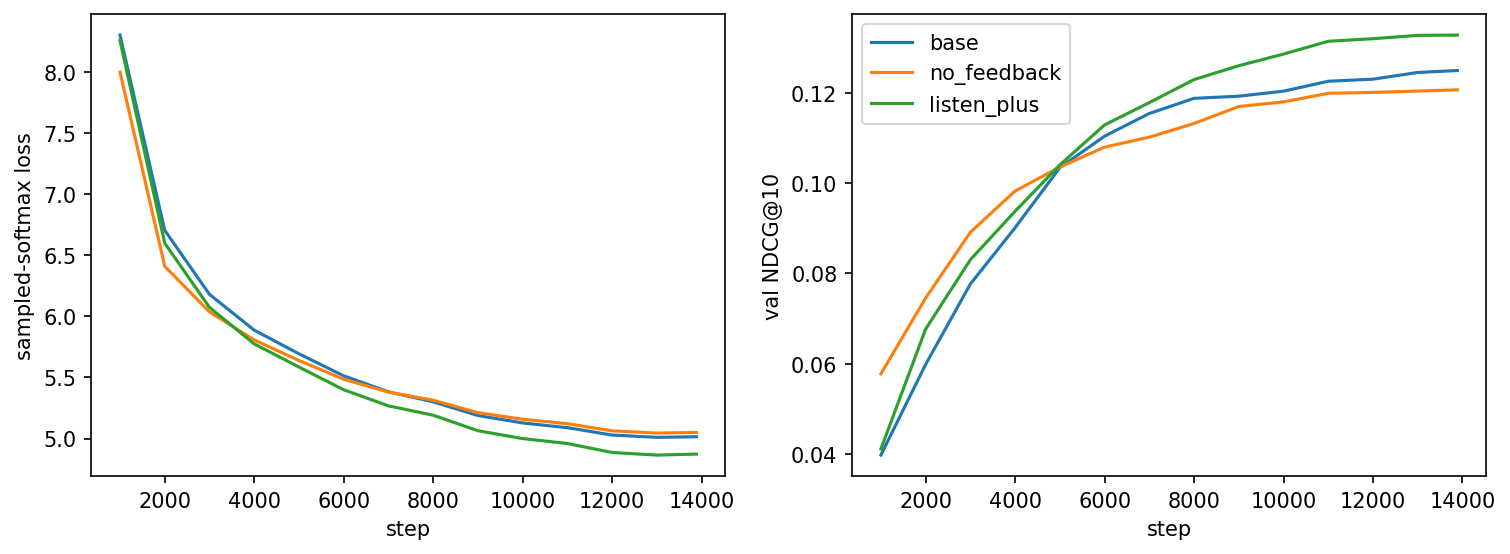
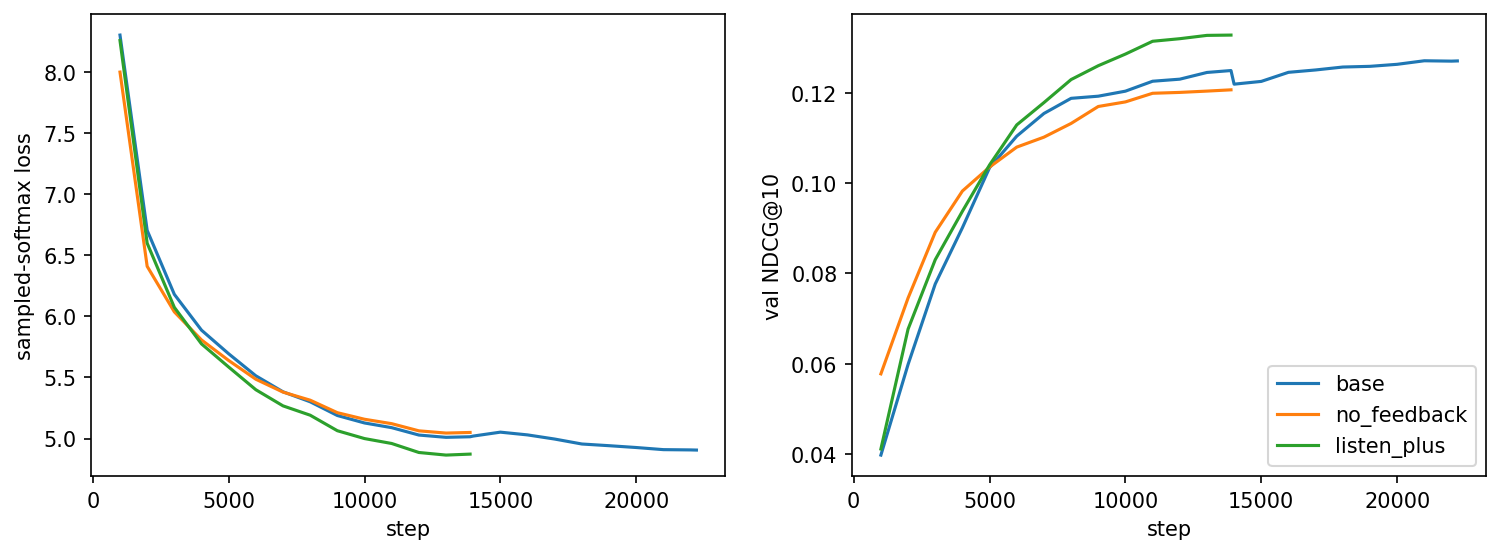
Stage 2 results with the base model trained for 8 epochs

diff --git a/docs/codeagents/observations.md b/docs/codeagents/observations.md
@@ -1,6 +1,6 @@
 # Наблюдения по результатам этапов 2–3 и решения для этапа 4
 
-> Состояние на 2026-10-22. Источник цифр — `results/stage2/*.csv` и `results/stage3/*.csv` (прогоны на Colab, коммит `b713f68`). План исследования — `docs/codeagents/research_plan.md`.
+> Состояние на 2026-10-22. Источник цифр — `results/stage2/*.csv` (`base` дообучен до 8 эпох) и `results/stage3/*.csv` (прогоны на Colab). План исследования — `docs/codeagents/research_plan.md`.
 > Метрики релевантности, если не сказано иначе, приведены в формулах статьи Yambda (`paper_*`, `metrics.yambda_paper_metrics`), чтобы их можно было сравнить с SASRec.
 
 ---
@@ -14,13 +14,13 @@
 | SASRec (статья Yambda) | 0.075 | 0.033 | 0.103 | — | — |
 | MostPop | 0.026 | 0.010 | 0.045 | 0.024 | 0.049 |
 | Repeat | **0.135** | **0.070** | **0.231** | 0.128 | **0.227** |
-| gpt2_base | 0.126 | 0.056 | 0.195 | 0.120 | 0.191 |
+| gpt2_base (8 эпох) | 0.128 | 0.057 | 0.196 | 0.121 | 0.193 |
 | no_feedback | 0.122 | 0.053 | 0.192 | 0.118 | 0.188 |
-| listen_plus | **0.135** | 0.059 | 0.206 | **0.129** | 0.199 |
+| listen_plus (5 эпох) | **0.135** | 0.059 | 0.206 | **0.129** | 0.199 |
 
-Режим с фильтром повторов (`exclude_seen=True`, уже прослушанные треки не рекомендуются), val NDCG@10: gpt2_base 0.025, listen_plus 0.024, no_feedback 0.024, MostPop 0.007.
+Режим с фильтром повторов (`exclude_seen=True`, уже прослушанные треки не рекомендуются), val NDCG@10: gpt2_base 0.025 (и после 5, и после 8 эпох), listen_plus 0.024, no_feedback 0.024, MostPop 0.007.
 
-Coverage@10 на val: Repeat 0.136, gpt2_base 0.113, listen_plus 0.108, MostPop 0.00005.
+Coverage@10 на val: Repeat 0.136, gpt2_base 0.117 (0.113 после 5 эпох), listen_plus 0.108, MostPop 0.00005.
 
 ### 1.2. Выводы
 
@@ -29,12 +29,26 @@ Coverage@10 на val: Repeat 0.136, gpt2_base 0.113, listen_plus 0.108, MostPop 
 - **`listen_plus` догоняет Repeat по NDCG@10** (0.1348 против 0.1347 на val), но уступает по Recall@100 (0.206 против 0.231). Выигрыш над `base` объясняется тем, что таргет обучения совпадает с таргетом оценки (Listen+).
 - **Признаки фидбэка дают небольшой стабильный плюс:** `no_feedback` хуже `base` на 0.004 NDCG@10 и на val, и на test.
 - **С фильтром повторов модель находит новые треки:** NDCG@10 0.025 против 0.007 у MostPop (в ≈3.4 раза).
-- **Модели недообучены.** Val NDCG@10 растёт до последнего шага (5 эпох, ≈14k шагов), early stopping ни разу не сработал (`results/stage2/training_base.png`, `training_ablations.png`).
+- **После 5 эпох модели выглядели недообученными:** val NDCG@10 росла до последнего шага (≈14k шагов), early stopping ни разу не сработал.
+- **Дообучение `base` до 8 эпох (≈22k шагов) дало мало:** paper NDCG@10 на val 0.126 → 0.128, на test 0.120 → 0.121, Recall@100 +0.002, coverage@100 0.414 → 0.428. В режиме с фильтром повторов прироста нет (0.025 → 0.025). На ≈14k шагов виден провал от тёплого рестарта lr (−0.003), который отыгрывается за ≈2k шагов. Последние оценки почти плоские (0.1273 → 0.1272), так что модель вышла на плато и дальше эпохи добавлять не стоит (`results/stage2/training_base.png`, `training_ablations.png`). `base` по-прежнему уступает и Repeat, и `listen_plus` (5 эпох).
 
 ### 1.3. Решения
 
 - **π_ref = `base`, а не `listen_plus`.** `base` моделирует все залогированные действия, включая скипы. Поэтому разница «π_ref → RL» показывает вклад именно RL, и та же модель годится как behaviour-политика π̂_b для off-policy ветки (§6.4 плана). `listen_plus` уже частично выровнена под награду R1; её стоит показать отдельной точкой на кривой Парето как «выравнивание через выбор таргета».
-- **`base` дообучается до 8 эпох** (`notebooks/02_baseline.ipynb`, `BASE_EPOCHS`). Прогон продолжается из `last.pt`. Косинусное расписание пересчитывается под новое число шагов, поэтому lr подскакивает с ≈0 до ≈30% от пика (тёплый рестарт). После дообучения нужно пересчитать таблицы `results/stage2/`. Абляции остались на 5 эпохах, так что их сравнение с новым `base` неравное.
+- **`base` дообучен до 8 эпох** (`notebooks/02_baseline.ipynb`, `BASE_EPOCHS`), таблицы `results/stage2/` пересчитаны. Прогон продолжился из `last.pt`; косинусное расписание пересчитывается под новое число шагов, поэтому lr подскочил с ≈0 до ≈30% от пика (тёплый рестарт). Абляции остались на 5 эпохах, так что их сравнение с новым `base` неравное (в пользу `base` на ≈0.002).
+- **`runs/base/best.pt` теперь 8-эпоховый, а `rm_proxy` инициализировалась из 5-эпохового.** Для RL это не проблема: из `base` бралась только начальная инициализация энкодера, RM загружается сама по себе. π_ref и начальная политика на этапе 4 — новый `base`.
+
+### 1.4. Состав выдачи (`results/stage2/recs_profile.csv`, val, top-10)
+
+| Метод | Уже слушал | Новый трек, знакомый артист | Новый артист | Медианный ранг популярности |
+|---|---|---|---|---|
+| MostPop | 27% | 14% | 59% | 1 029 |
+| Repeat | 100% | 0% | 0% | 9 377 |
+| gpt2_base | 84% | 9% | 7% | 10 298 |
+| gpt2_base, фильтр повторов | 0% | 61% | 39% | 9 696 |
+
+- **`base` в основном рекомендует повторы:** 84% top-10 — уже прослушанные треки. Это отражает данные, а не дефект модели, но для RL это значит, что π_ref почти Repeat-политика, и рост доли повторов под R1 стартует уже с высокого уровня.
+- **Новые треки модель берёт в основном у знакомых артистов** (61% при фильтре повторов), а популярность выдачи у неё не выше, чем у Repeat (медианный ранг ≈10k): смещения к популярному у π_ref нет, его появление после RL будет эффектом награды.
 
 ---
 
